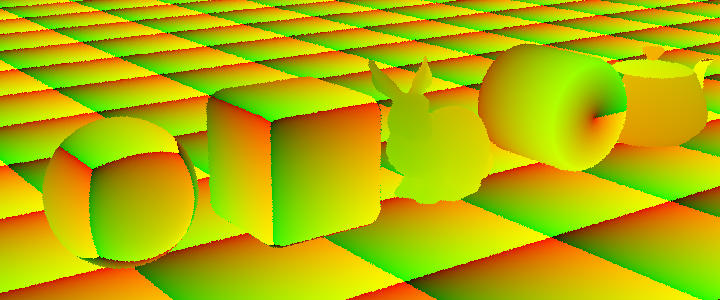
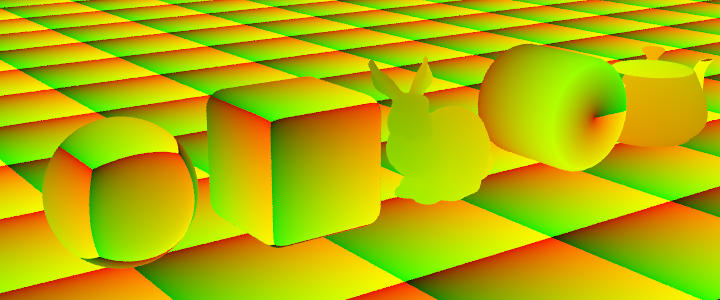
almost there

diff --git a/codes/yocto_raytrace.cpp b/codes/yocto_raytrace.cpp
@@ -51,6 +51,7 @@ using math::flt_max;
 using math::fmod;
 using math::fresnel_conductor;
 using math::fresnel_dielectric;
+using math::fresnel_schlick;
 using math::identity3x3f;
 using math::invalidb3f;
 using math::log;
@@ -129,7 +130,7 @@ static vec3f eval_texture(const rtr::texture* texture, const vec2f& uv,
 
   if(t < 0)
     t += size.y;
-  
+
   auto i = clamp((int)s, 0, size.x-1);
   auto j = clamp((int)t, 0, size.y-1);
 
@@ -158,7 +159,7 @@ static ray3f eval_camera(const rtr::camera* camera, const vec2f& image_uv) {
     (camera->film.y) * (image_uv.y -0.5f), camera->lens};
 
   auto e = zero3f;
-  auto d = normalize(-q - e);
+  auto d = -normalize(q - e);
 
   return ray3f{transform_point(camera->frame, e), transform_direction(camera->frame,d)};
 }
@@ -192,7 +193,6 @@ static vec3f eval_element_normal(const rtr::shape* shape, int element) {
 static vec3f eval_normal(
     const rtr::shape* shape, int element, const vec2f& uv) {
   if (shape->normals.empty()) return eval_element_normal(shape, element);
-  // YOUR CODE GOES HERE
   auto t = shape->triangles[element];
   auto norm = shape->normals;
   return normalize(interpolate_triangle(norm[t.x], norm[t.y], norm[t.z], uv));
@@ -204,8 +204,9 @@ static vec2f eval_texcoord(
     const rtr::shape* shape, int element, const vec2f& uv) {
   if (shape->texcoords.empty()) return uv;
   // YOUR CODE GOES HERE
-  auto t = shape->triangles[element];
+
   auto texcoord = shape->texcoords;
+  auto t = shape->triangles[element];
   return interpolate_triangle(texcoord[t.x], texcoord[t.y], texcoord[t.z], uv);
 }
 
@@ -216,10 +217,10 @@ static vec3f eval_environment(const rtr::scene* scene, const ray3f& ray) {
   //auto local_ray = trace_raytrace(scene, ray);
 
   auto emission = zero3f;
-  for(auto environment: scene->environments) {
+  for (auto environment : scene->environments) {
     auto local_dir = transform_direction(inverse(environment->frame), ray.d);
     auto texcoord = vec2f{
-    atan2(local_dir.z, local_dir.x) / (2 * pif),
+      atan2(local_dir.z, local_dir.x) / (2 * pif),
       acos(clamp(local_dir.y, -1.0f, 1.0f)) / pif};
 
     if (texcoord.x < 0)
@@ -604,82 +605,133 @@ intersection3f intersect_instance_bvh(const rtr::object* object,
 namespace yocto::raytrace {
 
 
-vec3f fresnel_schlick(vec3f ks, vec3f normal, vec3f outgoing) {
-return ks + (1 - ks)*pow(1 - dot(normal, outgoing), 5);
-}
+// vec3f fresnel_schlick(vec3f ks, vec3f normal, vec3f outgoing) {
+// return ks + (1 - ks)*pow(1 - dot(normal, outgoing), 5);
+// }
 // Raytrace renderer.
 static vec4f trace_raytrace(const rtr::scene* scene, const ray3f& ray,
     int bounce, rng_state& rng, const trace_params& params) {
   // YOUR CODE GOES HERE
 
   // intersect next point
-  auto intersection = intersect_scene_bvh(scene, ray);
+  auto intersection = intersect_scene_bvh(scene, ray, false, true);
    if(!intersection.hit) {
+     return {eval_environment(scene, ray), 1};
    }
 
   // evaluate geometry
   auto object = scene->objects[intersection.object];
+  auto position = transform_point(object->frame, eval_position(object->shape, intersection.element, intersection.uv));
 
-  auto position = transform_point(object->frame, eval_position(object->shape, intersection.element, intersection.uv));  
   // normal corrections
-  auto normal = transform_point(object->frame, eval_normal(object->shape, intersection.element, intersection.uv));
+  auto normal = transform_direction(object->frame, eval_normal(object->shape, intersection.element, intersection.uv));
+  auto outgoing = -ray.d;
+  if(!object->shape->lines.empty()) {
+    normal = orthonormalize(normal,outgoing);
+  }else if(!object->shape->triangles.empty()) {
+    if(dot(outgoing, normal) < 0) {
+      normal  = -normal;
+    }
+  }
 
   // evaluate material
-  auto incoming = sample_hemisphere(normal, rand2f(rng));
-  auto outgoing = -incoming; 
-  // handle opacity
-  //float opacity = 1.0;
-  //auto rngs = make_rng(1301081);
-  auto opacity = object->material->opacity;
-  if(opacity < 1 && rand1f(rng) > opacity) {
-    return trace_raytrace(scene, ray3f{position, outgoing}, bounce+1, rng, params);
-  }
+  auto texcoord = eval_texcoord(object->shape, intersection.element, intersection.uv);
+  auto base_color = object->material->color * eval_texture(object->material->color_tex, texcoord, false);
+  //auto texcoord = transform_point(object->frame, eval_texcoord(object->shape, intersection.element, intersection.uv));
+
   //accumulate emission
   auto radiance = object->material->emission;
   // exit if enough bounces are done
   if(bounce >= params.bounces) {
     return {radiance, 1};
   }
+
   // compute indirect illumination
-  auto transmission = object->material->transmission;
-  auto roughness = object->material->roughness;
-  auto metallic = object->material->metallic;
-  
-  
-  //radiance += ((2 * 3) * object->material->color) * (3 * trace_raytrace(scene, ray3f{position, incoming}, bounce + 1, rng, params) * dot(normal, incoming));
-  return {radiance, 1};
-  // transmission -> polished dielectric
-  
+  //getting all materials
+  auto specular = object->material->specular * eval_texture(object->material->specular_tex, texcoord, true).x;
+  auto metallic = object->material->metallic * eval_texture(object->material->metallic_tex, texcoord, true).x;
+  auto roughness = object->material->roughness * eval_texture(object->material->roughness_tex, texcoord, true).x;
+  //auto opacity
+  auto transmission = object->material->transmission * eval_texture(object->material->emission_tex, texcoord, true).x;
+  auto opacity = object->material->opacity * mean(eval_texture(object->material->opacity_tex, texcoord, true));
+
+  //etc
+
+// handle opacity
+  if (opacity < 1 && rand1f(rng) > opacity){
+    return trace_raytrace(scene, {position + ray.d * 1e-2f, ray.d},
+      bounce+1, rng, params);
+  }
+
+
   if(transmission) {
+    //transmission -> polished dielectric
     //handle polished dielectrics
-    
-    
+    auto fsc =  fresnel_schlick(base_color, normal, outgoing);
+    if(rand1f(rng) < fsc.x) {
+      auto incoming = reflect(outgoing, normal);
+      auto rec = trace_raytrace(scene, ray3f{position, incoming}, bounce+1, rng, params);
+      radiance += vec3f{rec.x, rec.y, rec.z};
+
+    }else {
+      auto incoming = - outgoing;
+      auto rec = trace_raytrace(scene, ray3f{position, incoming}, bounce+1, rng, params);
+      radiance += object->material->color * vec3f{rec.x, rec.y, rec.z};
+    }
+
   }else if (metallic && !roughness) {
     // metallic && !roughness -> polished metal
-    auto incoming = sample_hemisphere(normal, rand2f(rng));
-    auto halfway = normalize(outgoing + incoming);
-    // radiance += (2 * 3) *
-    // microfacet_distribution(roughness, normal, halfway) *
-    // microfacet_shadowing(roughness,normal, halfway, outgoing,incoming, false) /
-    // (4 * dot(normal, outgoing) * dot(normal, incoming)) *
-    // trace_raytrace(scene, ray3f{position, incoming},
-    // bounce+1, rng, params) * dot(normal, incoming);
-    
+    auto incoming = reflect(outgoing, normal);
+    auto rec = trace_raytrace(scene, ray3f{position, incoming}, bounce + 1, rng, params);
+
+    radiance += fresnel_schlick(base_color, normal, outgoing) * vec3f{rec.x, rec.y, rec.z};
+
   } else if(metallic && roughness) {
     // metallic &&  roughness -> rough metal
     auto incoming = reflect(outgoing, normal);
-    radiance += fresnel_schlick(object->material->color, normal, outgoing) * trace_raytrace(scene, ray3f{position, incoming}, bounce+1, rng, params);
-  }else if(set_specular) {
+    auto pi = yocto::math::ray_eps;
+    auto halfway = normalize(outgoing + incoming);
+    auto rec = trace_raytrace(scene, ray3f{position, incoming}, bounce + 1, rng, params);
+
+    radiance += (2 * pi) *
+    fresnel_schlick(base_color, halfway, outgoing) *
+    microfacet_distribution(roughness, normal, halfway) *
+    microfacet_shadowing(roughness,normal,halfway,outgoing,incoming,true) /
+    (4 * dot(normal, outgoing) * dot(normal, incoming)) *
+    vec3f{rec.x, rec.y, rec.z} * dot(normal, incoming);
+
+  }else if(specular) {
     // specular -> rough plastic
+    auto incoming = sample_hemisphere(normal, rand2f(rng));
+    auto halfway = normalize(outgoing + incoming);
+    auto pi = yocto::math::ray_eps;
+
+    auto rec = trace_raytrace(scene, ray3f{position, incoming}, bounce + 1, rng, params);
+
+    radiance += (2 * pi) * (
+    object->material->color / pi * (1 - fresnel_schlick({0.04, 0.04, 0.04},halfway,outgoing)) +
+    fresnel_schlick({0.04, 0.04, 0.04}, halfway, outgoing) *
+    microfacet_distribution(roughness, normal, halfway) *
+    microfacet_shadowing(roughness,normal,halfway, outgoing,incoming, true) /
+    (4 * dot(normal, outgoing) * dot(normal, incoming))) * vec3f{rec.x, rec.y, rec.z};
 
   }else {
     //handle diffuse
     auto incoming = sample_hemisphere(normal, rand2f(rng));
-    //radiance += (2 * 3) * object->material->color / 3 * trace_raytrace(scene, ray3f{position, incoming}, bounce + 1, rng, params) * dot(normal, incoming);
-    return {radiance, 1};
+    auto pi = yocto::math::ray_eps;
+    auto sr = ray3f();
+    sr.d = incoming;
+    sr.o = position;
+    sr.tmin = pi;
+
+    auto rec = trace_raytrace(scene, sr, bounce+1, rng, params);
+
+    radiance += (2 * pi) * (base_color/ pi) * vec3f{rec.x, rec.y, rec.z} 
+                * dot(normal, incoming);
+
+
   }
-  // done
-  //return {zero3f, 1};
+  return {radiance, 1};
 }
 
 // Eyelight for quick previewing.
@@ -697,14 +749,14 @@ static vec4f trace_eyelight(const rtr::scene* scene, const ray3f& ray,
   auto normal = transform_direction(object->frame, eval_normal(object->shape, intersection.element, intersection.uv));
   // add simple shading
   return {object->material->color * dot(normal, -ray.d), 1};
-  return {zero3f, 1};
+  //return {zero3f, 1};
 }
 
 static vec4f trace_normal(const rtr::scene* scene, const ray3f& ray, int bounce,
     rng_state& rng, const trace_params& params) {
   // YOUR CODE GOES HERE
   // intersect next point
-  auto intersection = intersect_scene_bvh(scene, ray);
+  auto intersection = intersect_scene_bvh(scene, ray, false, true);
    if(!intersection.hit) {
      return {zero3f, 1};
    }
@@ -718,14 +770,14 @@ static vec4f trace_texcoord(const rtr::scene* scene, const ray3f& ray,
     int bounce, rng_state& rng, const trace_params& params) {
   // YOUR CODE GOES HERE
   // intersect next point
-  auto intersection = intersect_scene_bvh(scene, ray);
+  auto intersection = intersect_scene_bvh(scene, ray, false, true);
    if(!intersection.hit) {
      return {zero3f, 1};
    }
   // prepare shading point
   auto object = scene->objects[intersection.object];
-  vec2f color = eval_texcoord(object->shape, intersection.element, intersection.uv);
-  return {fmod(color.x, 1), fmod(color.y, 1), 0, 1};
+  auto texcoord = eval_texcoord(object->shape, intersection.element, intersection.uv);
+  return {fmod(texcoord.x, 1), fmod(texcoord.y, 1), 0, 1};
 
 }
 
@@ -733,7 +785,7 @@ static vec4f trace_color(const rtr::scene* scene, const ray3f& ray, int bounce,
     rng_state& rng, const trace_params& params) {
   // YOUR CODE GOES HERE
   // intersect next point
-  auto intersection = intersect_scene_bvh(scene, ray);
+  auto intersection = intersect_scene_bvh(scene, ray, false, true);
    if(!intersection.hit) {
      return {zero3f, 1};
    }
@@ -746,7 +798,7 @@ static vec4f trace_color(const rtr::scene* scene, const ray3f& ray, int bounce,
 // Trace a single ray from the camera using the given algorithm.
 using shader_func = vec4f (*)(const rtr::scene* scene, const ray3f& ray,
     int bounce, rng_state& rng, const trace_params& params);
-//IMPORTANTTTT 
+//IMPORTANTTTT
 static shader_func get_trace_shader_func(const trace_params& params) {
   switch (params.shader) {
     case shader_type::raytrace: return trace_raytrace;
@@ -834,32 +886,36 @@ void trace_samples(rtr::state* state, const rtr::scene* scene,
   if (params.noparallel) {
     // loop over image pixels
 
-    for(auto j = 0; j < state->render.size().y; j++) {
-      for(auto i = 0; i < state->render.size().x; i++) {
-        auto &pixel = state->pixels[i,j];
+    for (auto j = 0; j < state->render.size().y; j++){
+      for (auto i = 0; i < state->render.size().x; i++){
+        // get pixel uv from rng
+        auto& pixel = state->pixels[{i,j}];
         auto image_size = state->pixels.size();
         auto puv = rand2f(pixel.rng);
-         auto uv = vec2f{(i + puv.x) / image_size.x, (j + puv.y) / image_size.y};
-        auto ray = eval_camera(camera, uv);
-        
-        auto color = shader(scene, ray, params.bounces, pixel.rng, params);
+        auto uv = vec2f{(i + puv.x) / image_size.x, (j + puv.y) / image_size.y};
 
-        if(max(color) > params.clamp) {
-          color = color * (params.clamp/ max(color));
-        }
-        pixel.accumulated += color; 
-        pixel.samples += 1; 
-        state->render[{i, j}] = color; 
+        // get camera ray
+        auto ray = eval_camera(camera, uv);
+        // call shader
+        auto color = shader(scene, ray, 0, pixel.rng, params);
+        // clamp to max value
+        if(max(color)> params.clamp)
+          color = color * (params.clamp / max(color));
+        // update state accumulation, samples and render
+        pixel.accumulated += color;
+        pixel.samples += 1;
+        state->render[{i, j}] = pixel.accumulated/(float)pixel.samples;
       }
       //something here
 
     }
-  
+
   } else {
     parallel_for(
-        state->render.size(), [state, scene, camera, &params](const vec2i& ij) {
-          auto shader = get_trace_shader_func(params);
-          auto& pixel = state->pixels[ij.x,ij.y];
+        state->render.size(), [state, scene, camera, &params, shader](const vec2i& ij) {
+          // copy here the body of the above loop///
+          // get pixel uv from rng
+          auto& pixel = state->pixels[{ij.x,ij.y}];
           auto image_size = state->pixels.size();
           auto puv = rand2f(pixel.rng);
           auto uv = vec2f{(ij.x + puv.x) / image_size.x, (ij.y + puv.y) / image_size.y};
@@ -867,14 +923,14 @@ void trace_samples(rtr::state* state, const rtr::scene* scene,
           // get camera ray
           auto ray = eval_camera(camera, uv);
           // call shader
-          auto color = shader(scene, ray, params.bounces, pixel.rng, params);
+          auto color = shader(scene, ray, 0, pixel.rng, params);
           // clamp to max value
           if(max(color)> params.clamp)
             color = color * (params.clamp / max(color));
           // update state accumulation, samples and render
           pixel.accumulated += color;
           pixel.samples += 1;
-          state->render[{ij.x, ij.y}] = color; 
+          state->render[ij] = pixel.accumulated/(float)pixel.samples;
         });
   }
 }
@@ -1035,7 +1091,7 @@ void set_transmission(rtr::material* material, float transmission, bool thin,
 void set_thin(rtr::material* material, bool thin) { material->thin = thin; }
 void set_roughness(
     rtr::material* material, float roughness, rtr::texture* roughness_tex) {
-  material->roughness     = roughness;
+  material->roughness     = roughness * roughness;
   material->roughness_tex = roughness_tex;
 }
 void set_opacity(
